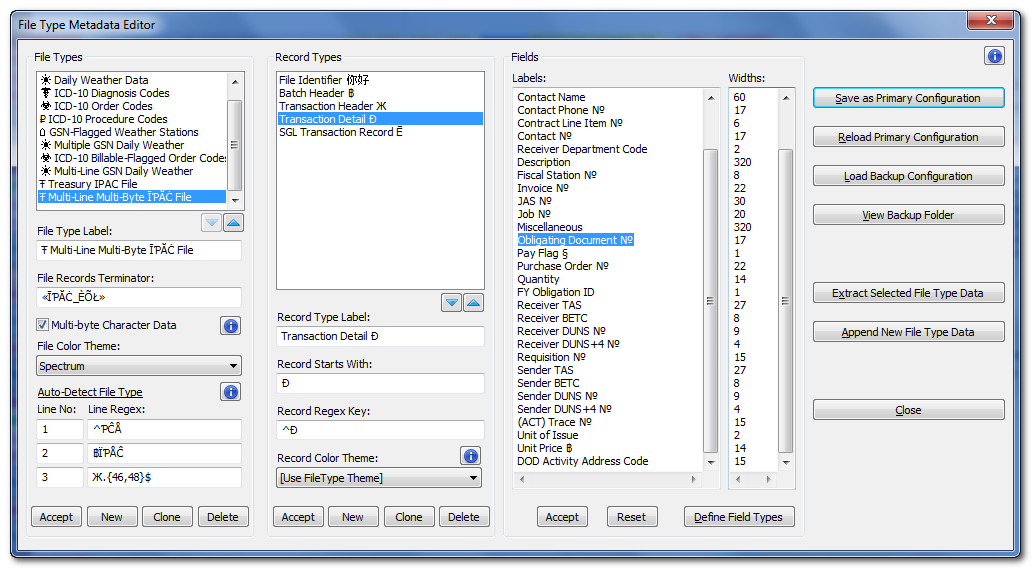
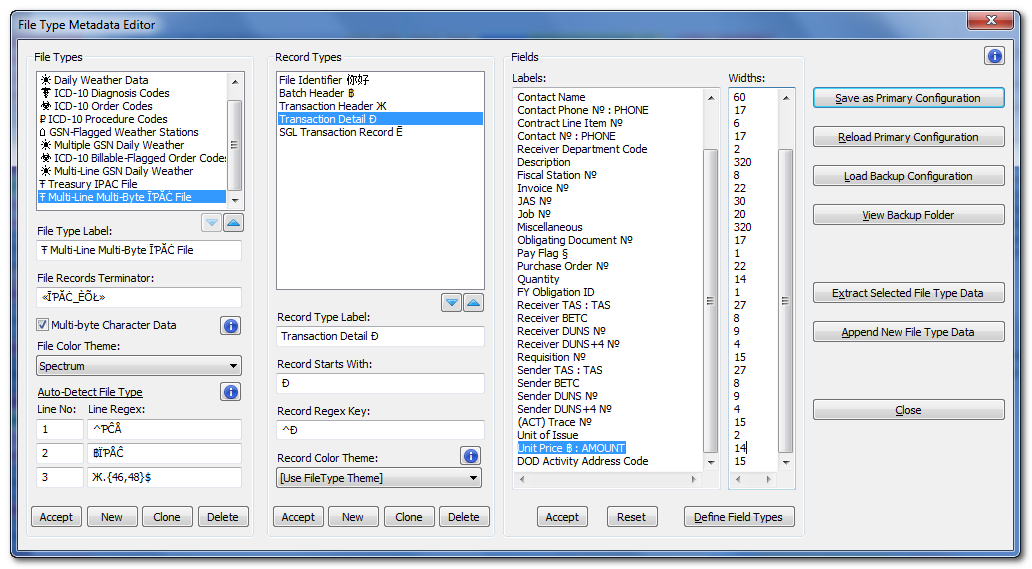
Updated README & VersionHistory

diff --git a/src/Dialogs/VisualizerPanel.cpp b/src/Dialogs/VisualizerPanel.cpp
@@ -242,22 +242,22 @@ void VisualizerPanel::initPanel() {
    SetWindowText(GetDlgItem(_hSelf, IDC_VIZPANEL_PASTE_RPAD_FIELD), _configIO.getPreference(PREF_PASTE_RPAD).c_str());
    SetWindowText(GetDlgItem(_hSelf, IDC_VIZPANEL_PASTE_LPAD_FIELD), _configIO.getPreference(PREF_PASTE_LPAD).c_str());
 
-   addTooltip(_hSelf, IDC_VIZPANEL_CLEAR_BTN, NULL, VIZ_PANEL_CLEAR_BTN_TIP, FW_TIP_MEDIUM, FALSE);
-   addTooltip(_hSelf, IDC_VIZPANEL_FIELD_COPY_TRIM, NULL, VIZ_PANEL_FIELD_TRIM_TIP, FW_TIP_SHORT, FALSE);
+   addTooltip(_hSelf, IDC_VIZPANEL_CLEAR_BTN, NULL, VIZ_PANEL_CLEAR_BTN_TIP, FW_TIP_MEDIUM, TRUE);
+   addTooltip(_hSelf, IDC_VIZPANEL_FIELD_COPY_TRIM, NULL, VIZ_PANEL_FIELD_TRIM_TIP, FW_TIP_SHORT, TRUE);
 
-   addTooltip(_hSelf, IDC_VIZPANEL_FIELD_LEFT_BUTTON, NULL, VIZ_PANEL_FIELD_LEFT_TIP, FW_TIP_SHORT, FALSE);
-   addTooltip(_hSelf, IDC_VIZPANEL_FIELD_RIGHT_BUTTON, NULL, VIZ_PANEL_FIELD_RIGHT_TIP, FW_TIP_SHORT, FALSE);
+   addTooltip(_hSelf, IDC_VIZPANEL_FIELD_LEFT_BUTTON, NULL, VIZ_PANEL_FIELD_LEFT_TIP, FW_TIP_SHORT, TRUE);
+   addTooltip(_hSelf, IDC_VIZPANEL_FIELD_RIGHT_BUTTON, NULL, VIZ_PANEL_FIELD_RIGHT_TIP, FW_TIP_SHORT, TRUE);
 
-   addTooltip(_hSelf, IDC_VIZPANEL_FIELD_COPY_BUTTON, NULL, VIZ_PANEL_FIELD_COPY_TIP, FW_TIP_MEDIUM, FALSE);
-   addTooltip(_hSelf, IDC_VIZPANEL_FIELD_PASTE_BUTTON, NULL, VIZ_PANEL_FIELD_PASTE_TIP, FW_TIP_LONG, FALSE);
+   addTooltip(_hSelf, IDC_VIZPANEL_FIELD_COPY_BUTTON, NULL, VIZ_PANEL_FIELD_COPY_TIP, FW_TIP_MEDIUM, TRUE);
+   addTooltip(_hSelf, IDC_VIZPANEL_FIELD_PASTE_BUTTON, NULL, VIZ_PANEL_FIELD_PASTE_TIP, FW_TIP_LONG, TRUE);
 
-   addTooltip(_hSelf, IDC_VIZPANEL_PASTE_LEFT_LABEL, NULL, VIZ_PANEL_FIELD_RPAD_TIP, FW_TIP_LONG, FALSE);
-   addTooltip(_hSelf, IDC_VIZPANEL_PASTE_RPAD_LABEL, NULL, VIZ_PANEL_FIELD_RPAD_TIP, FW_TIP_LONG, FALSE);
-   addTooltip(_hSelf, IDC_VIZPANEL_PASTE_RPAD_INDIC, NULL, VIZ_PANEL_FIELD_RPAD_TIP, FW_TIP_LONG, FALSE);
+   addTooltip(_hSelf, IDC_VIZPANEL_PASTE_LEFT_LABEL, NULL, VIZ_PANEL_FIELD_RPAD_TIP, FW_TIP_LONG, TRUE);
+   addTooltip(_hSelf, IDC_VIZPANEL_PASTE_RPAD_LABEL, NULL, VIZ_PANEL_FIELD_RPAD_TIP, FW_TIP_LONG, TRUE);
+   addTooltip(_hSelf, IDC_VIZPANEL_PASTE_RPAD_INDIC, NULL, VIZ_PANEL_FIELD_RPAD_TIP, FW_TIP_LONG, TRUE);
 
-   addTooltip(_hSelf, IDC_VIZPANEL_PASTE_RIGHT_LABEL, NULL, VIZ_PANEL_FIELD_LPAD_TIP, FW_TIP_LONG, FALSE);
-   addTooltip(_hSelf, IDC_VIZPANEL_PASTE_LPAD_LABEL, NULL, VIZ_PANEL_FIELD_LPAD_TIP, FW_TIP_LONG, FALSE);
-   addTooltip(_hSelf, IDC_VIZPANEL_PASTE_LPAD_INDIC, NULL, VIZ_PANEL_FIELD_LPAD_TIP, FW_TIP_LONG, FALSE);
+   addTooltip(_hSelf, IDC_VIZPANEL_PASTE_RIGHT_LABEL, NULL, VIZ_PANEL_FIELD_LPAD_TIP, FW_TIP_LONG, TRUE);
+   addTooltip(_hSelf, IDC_VIZPANEL_PASTE_LPAD_LABEL, NULL, VIZ_PANEL_FIELD_LPAD_TIP, FW_TIP_LONG, TRUE);
+   addTooltip(_hSelf, IDC_VIZPANEL_PASTE_LPAD_INDIC, NULL, VIZ_PANEL_FIELD_LPAD_TIP, FW_TIP_LONG, TRUE);
 
    setFont(_hSelf, IDC_VIZPANEL_MCBS_OVERRIDE_IND, fontName, 9);
 

diff --git a/VersionHistory.md b/VersionHistory.md
@@ -1,5 +1,19 @@
 # Version History
 
+### Version 2.4.0.0
+
+1. [Field Types](https://github.com/shriprem/FWDataViz/blob/master/docs/field_type_dialog.md) for distinguishing fields sharing the same traits.
+
+2. Preferences is now available with three settings.
+
+3. Regex expression fields are now validated for user input errors.
+
+4. Darkmode functionality has been moved out from the plugin DLL into a separate _NPP_Plugin_Darkmode.dll_.
+
+**Release:** [2.4.0.0 Release](https://github.com/shriprem/FWDataViz/releases/tag/v2.4.0.0)
+
+---
+
 ### Version 2.3.0.0
 #### Enhancements
 1. [Field Copy](https://github.com/shriprem/FWDataViz/blob/master/docs/field_copy_paste.md#field-copy) and [Field Paste](https://github.com/shriprem/FWDataViz/blob/master/docs/field_copy_paste.md#field-paste) with smart left or right alignment and padding or trimming.

diff --git a/docs/file_type_config_dialog.md b/docs/file_type_config_dialog.md
@@ -17,6 +17,8 @@ This editor is organized in a three-level hierarchy:
   * Record Regex Key
   * [Record Color Theme](https://github.com/shriprem/FWDataViz/blob/master/docs/record_type_theme.md)
 
+* [Field Types](https://github.com/shriprem/FWDataViz/blob/master/docs/field_type_dialog.md) can be affixed to File Labels with distinctive shared traits.
+
 * Field Labels and Field Widths are synchronized for editing and scrolling.
 
 * Changes in the Fields section will disable change of selections at the File Types and Record Type levels until the changes are accepted or reset or the configuration file is saved or reloaded.

diff --git a/README.md b/README.md
@@ -1,6 +1,6 @@
 # FWDataViz
 #### Fixed Width Data Visualizer plugin for Notepad++
-[Current Version: 2.3.0.0](https://github.com/shriprem/FWDataViz/blob/master/VersionHistory.md)
+[Current Version: 2.4.0.0](https://github.com/shriprem/FWDataViz/blob/master/VersionHistory.md)
 
 ![FWDataViz](https://raw.githubusercontent.com/shriprem/FWDataViz/master/images/multi_rec_weather_stations.png)
 
